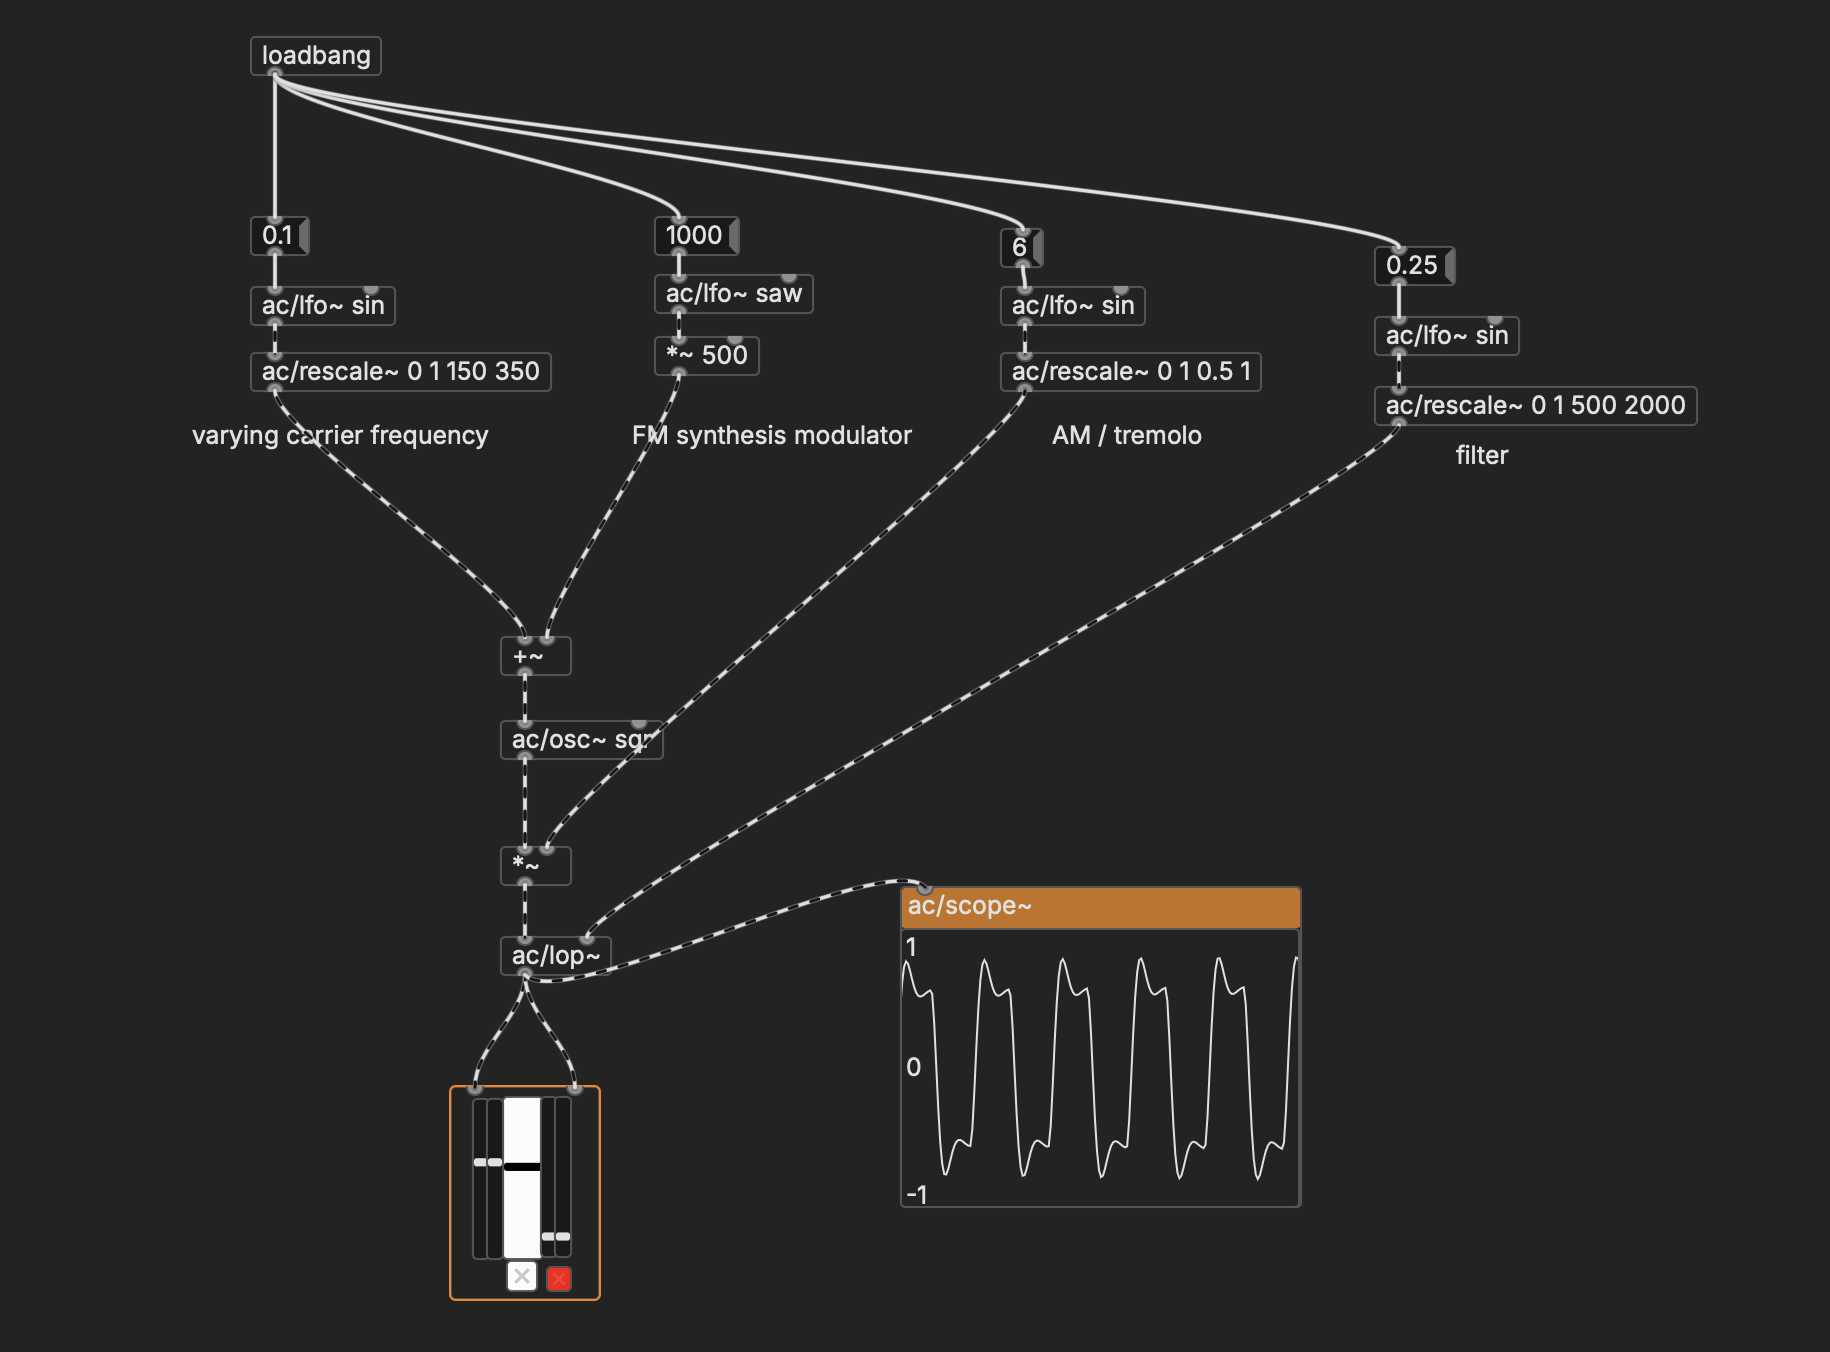
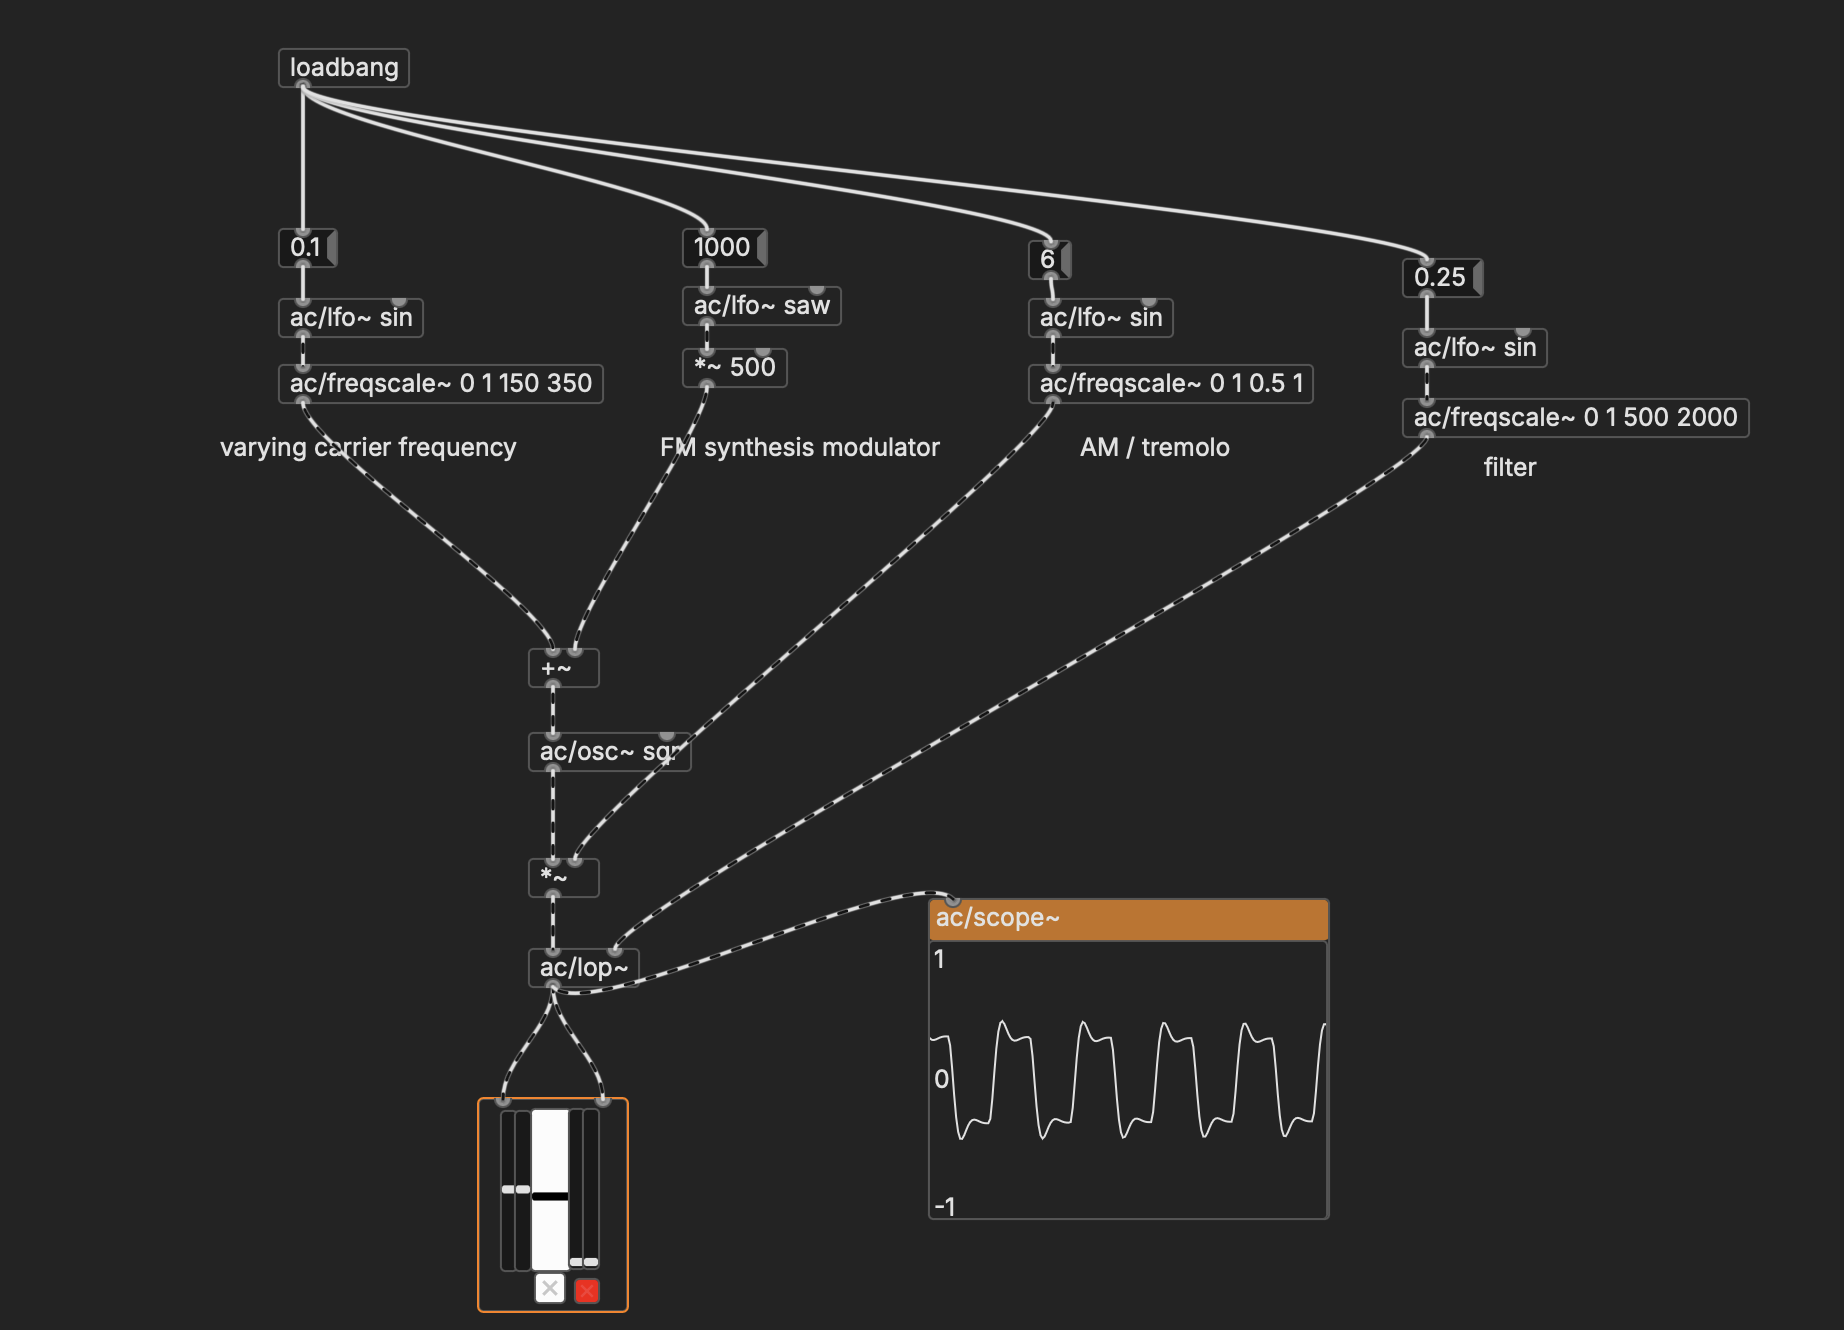
finished envelopes

diff --git a/workshops/pd/envelopes.md b/workshops/pd/envelopes.md
@@ -38,8 +38,29 @@ But by multiplying some oscillating signal with the `ac/adsr~` signal, we can pr
 
 ## Filter envelopes
 
-Another common use for an envelope is to control the rolloff frequency of a filter. In this example, we're rescaling the 0-1 range of the envelope to a frequency range of our choosing. 
+Another common use for an envelope is to control the rolloff frequency of a filter. In this example, we're using `freqscale~` to rescale the 0-1 range of the envelope to a frequency range of our choosing. This results in a filter sweep over the static tone. 
 
 <p align="center">
   <img src="media/eg_filter.png" width=800 /><br />
 </p>
+
+For this, you'll want to have a wave with lots of harmonics like a saw or square wave (or something more complex) as opposed to a sine wave, which won't have much to filter out.
+
+
+## Sound design with envelopes
+
+The classic setup that hardware synthesizers use for sound design has three stages:
+
+1. **OSCILLATOR STAGE** Create an interesting waveform by combining oscillators
+2. **FILTER STAGE** Apply an enveloped filter to change the timbre over time
+3. **AMPLIFIER STAGE** Shape the sound with tremolo, an amplitude envelope, and any added make-up gain
+
+<p align="center">
+  <img src="media/sound_design.png" width=800 /><br />
+</p>
+
+Each of these sections can be as simple or elaborate as you want it to be, and of course you by no means have to organize things in this way. To some extent, this design was motivated by hardware constraints that we don't have in Pd. That said, having a conceptually organized approach like this can be very helpful.
+
+
+One detail: note that we reset the phase of the LFO when the note is triggered. This syncronizes the the tremolo with the beginning of the envelope.
+

diff --git a/workshops/pd/synthesis.md b/workshops/pd/synthesis.md
@@ -108,7 +108,7 @@ Note that this becomes a branching process: any number box can be replaced with 
   <img src="media/complex.png" width=800 /><br />
 </p>
 
-Notice how we can use `rescale~` (and `rescale`) to change the 0 to 1 range of an LFO to an arbitrary range, like 150 to 350.
+Notice how we can use `freqscale~` to change the 0 to 1 range of an LFO to an arbitrary range of frequencies, in this case 150–350 and 500–2000. `freqscale~` uses a logarithmic scale, because we perceive doubling of a frequency as a linear change of one octave.
 
 
 
